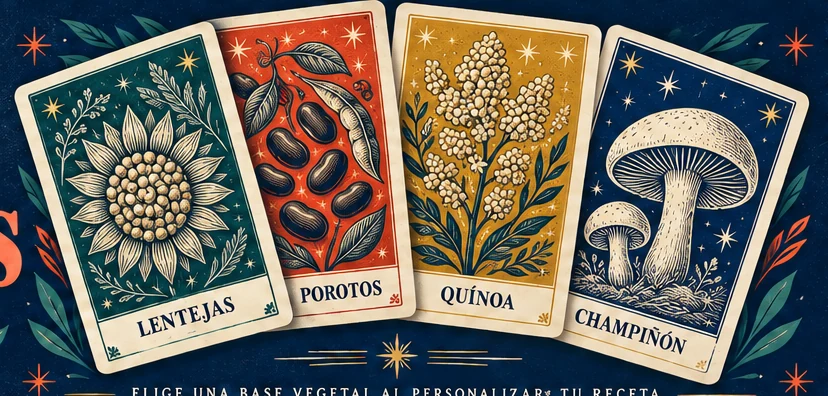
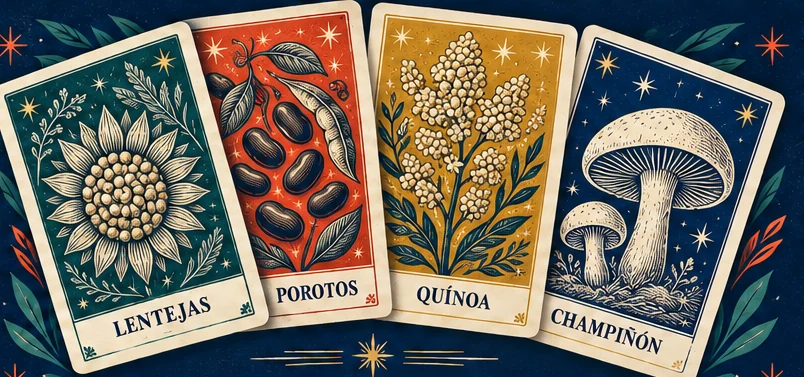
Corrige el recorte de las cartas de Veganos para ocultar texto rasterizado
El recorte de cartas-loteria.webp arrastraba la leyenda inferior y la «s» del título de la
referencia. Se vuelve a recortar sin esas zonas (804 x 377) y se ajusta la proporción.

diff --git a/css/lupita-veganos.css b/css/lupita-veganos.css
@@ -35,7 +35,8 @@
   padding: clamp(16px, 2vw, 30px) 52% clamp(86px, 8.6vw, 124px) clamp(8px, 1.6vw, 26px);
   background: none;
 }
-/* Cuatro cartas de lotería (arte decorativo recortado de la referencia). */
+/* Cuatro cartas de lotería (arte decorativo). El recorte excluye el texto rasterizado de la
+   referencia (título y leyenda inferior), que asomaba en los bordes. */
 #veganos .section-head::before {
   content: '';
   position: absolute;
@@ -43,7 +44,7 @@
   top: 50%;
   right: 0;
   width: 55%;
-  aspect-ratio: 828 / 396;
+  aspect-ratio: 804 / 377;
   transform: translateY(-58%);
   background: url('../assets/veganos/cartas-loteria.webp') center / 100% 100% no-repeat;
   -webkit-mask-image: linear-gradient(90deg, transparent 0, #000 14%, #000 92%, transparent 100%), linear-gradient(180deg, transparent 0, #000 10%, #000 90%, transparent 100%);

diff --git a/index.html b/index.html
@@ -64,7 +64,7 @@
 <link rel="stylesheet" href="css/lupita-sandwiches.css?v=20261022-11">
 <link rel="stylesheet" href="css/lupita-especiales.css?v=20261022-4">
 <link rel="stylesheet" href="css/lupita-compartir.css?v=20261022-5">
-<link rel="stylesheet" href="css/lupita-veganos.css?v=20261022-4">
+<link rel="stylesheet" href="css/lupita-veganos.css?v=20261022-6">
 <link rel="stylesheet" href="css/lupita-bebidas.css?v=20261022-2">
 </head>
 <body>
